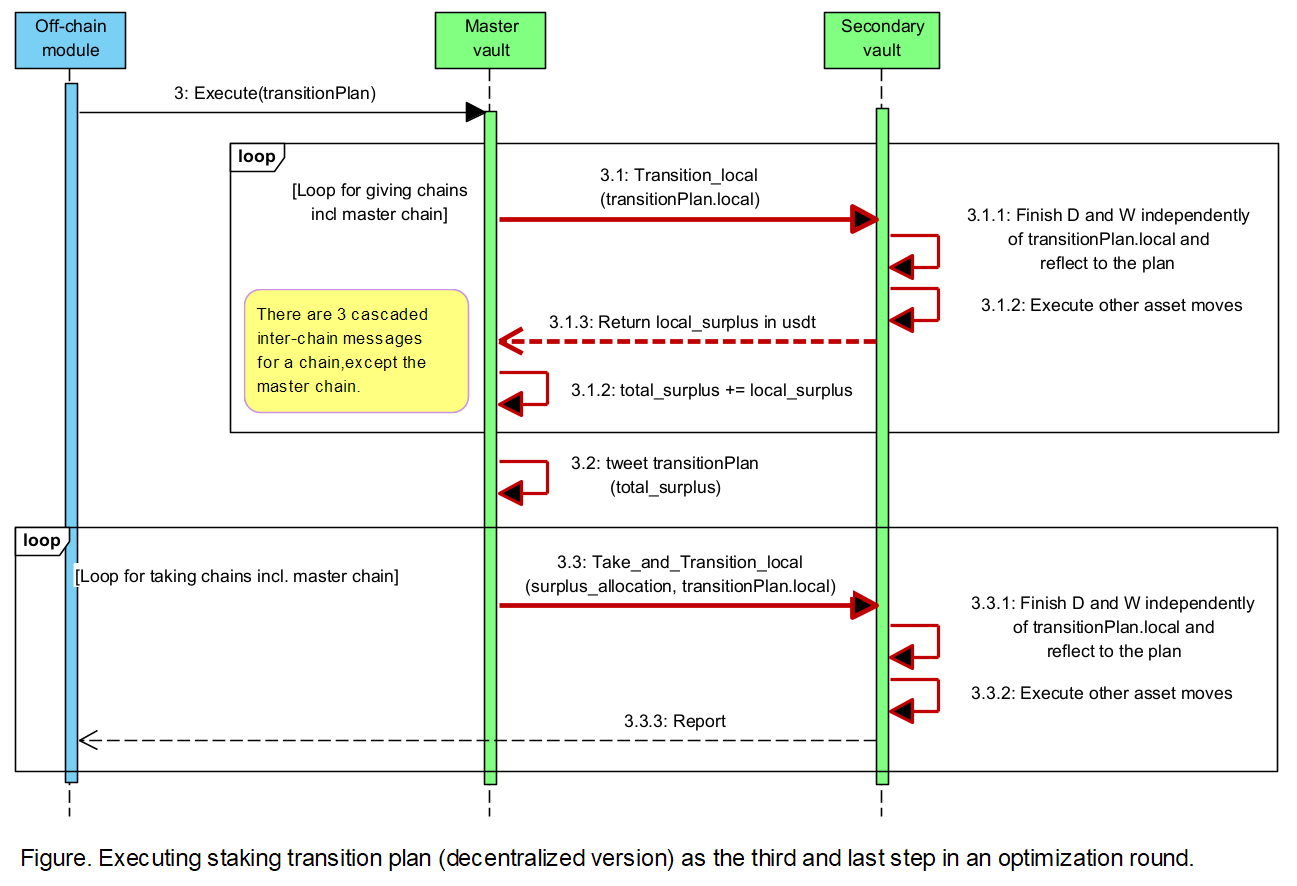
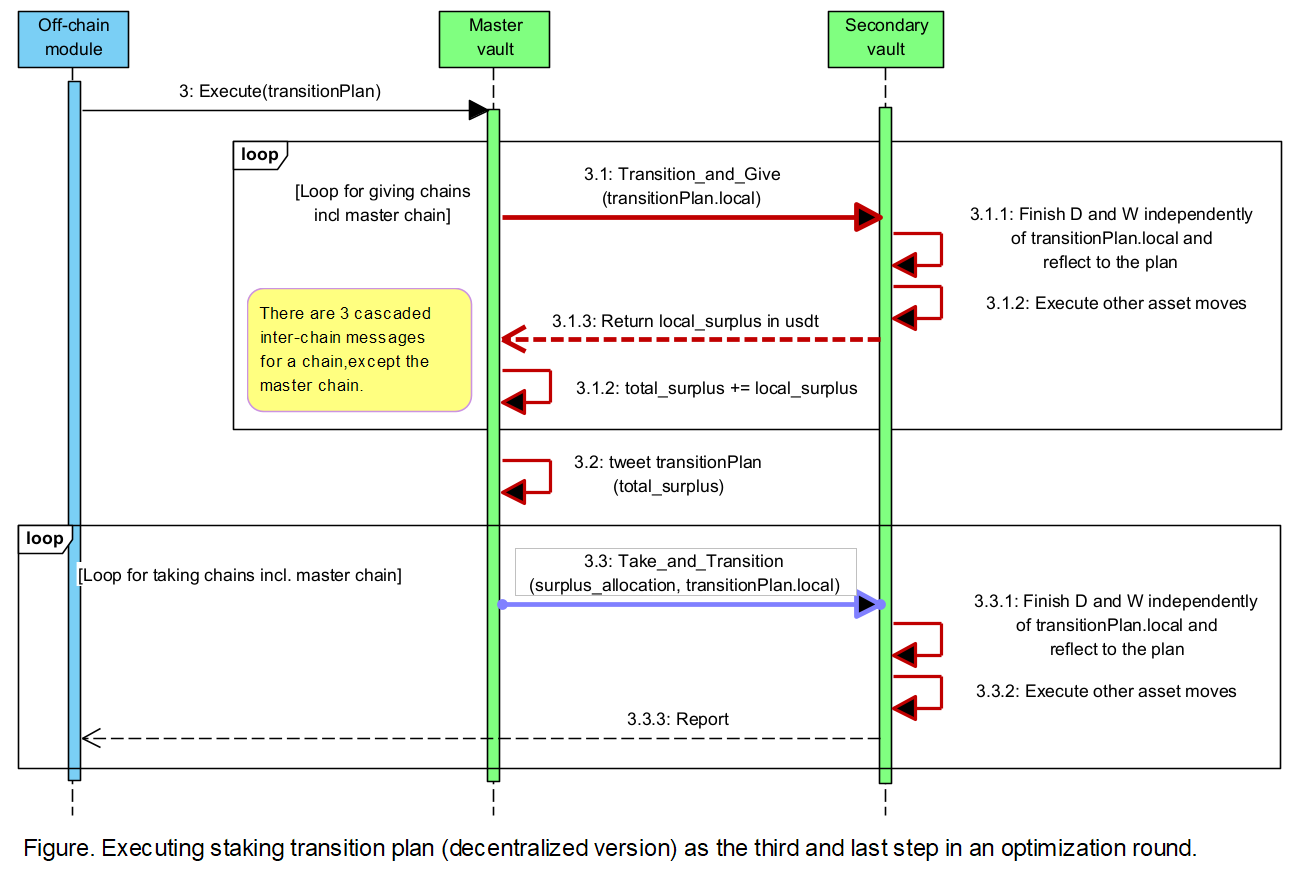
diagrams

diff --git a/Architecture/Architecture.md b/Architecture/Architecture.md
@@ -129,7 +129,7 @@ The only way is to deploy smart contracts on chains that cooperate with each oth
 
 According to the requirements, vaults do *not* have to 
 - find an optimal asset state to **Optimize asset/request state** to
-- execute asset move requests, like assetMovePlan identified in requirements, strictly, because there will not be negative profit.
+- execute asset move requests, like transitionPlan identified in requirements, strictly, because there will not be negative profit.
 <br><br>
 
 ###  2.3. <a name='Localtransportationtofromwallets'></a>Local transportation to/from wallets
@@ -363,19 +363,19 @@ Functional modules are described below:
 - **User wallet**: This is a blockchain wallet and identifies a **User**. **User**'s actions; like deposit, withdraw, and harvest; are authenticated/authorized with this wallet.
 - **Vault account**: It is the blockchain account of, and controlled by, **Secondary vault contract** and used to store temporary assets, like funds pending staking.
 - **Treasury wallet**: This is a blockchain wallet, and a place to store and retrieve system revenues, like fees. It will be better if it is not owned by a human, but be the account of a smart contract that only obeys vault contracts, for better decentralization. It is deployed on all chains.
-- **Staking optimizer**: This is an off-chain module that can invoke **Master vault contract**s. This module is globally unique, calculates optimal **assetMovePlan**s, and lets the master vault to execute the plans (in cooperation with secondary vaults). *It is an important design decision that the assetMovePlan is calculated off-chain, thus leading to transparency and security debates, for the sake of gas- and time- savings:*
-    - Transparency debate: **User**s will not be able to track why the system chose particular **assetMovePlan**s technically.
-    - Security debate: If the calculation of **assetMovePlan** is hacked or compromised, then the system will make a less-optimal staking maneuver.
+- **Staking optimizer**: This is an off-chain module that can invoke **Master vault contract**s. This module is globally unique, calculates optimal **transitionPlan**s, and lets the master vault to execute the plans (in cooperation with secondary vaults). *It is an important design decision that the transitionPlan is calculated off-chain, thus leading to transparency and security debates, for the sake of gas- and time- savings:*
+    - Transparency debate: **User**s will not be able to track why the system chose particular **transitionPlan**s technically.
+    - Security debate: If the calculation of **transitionPlan** is hacked or compromised, then the system will make a less-optimal staking maneuver.
     - Justification: Only the second of the following concerns becomes less transparent, leading to both un-assured best profitability and assured huge gas- and time- savings.
         - how much of what assets from which pool to which pool, is the move about
         - whether all the asset moves are securely and/or reasonably/optimally chosen
         - whether all the asset moves are securely executed and logged
         - whether the move logs are readily available to check later
-        - whether the execution of assetMovePlan is integrated
+        - whether the execution of transitionPlan is integrated
 - **Trading optimizer**: This off-chain module is similar to **Staking optimizer**, except it relates to trading.
 - **Adimin wallet**: This wallet is used to invoke **Master vault contract", in privilege, on behalf of the administrator.
-- **Staking planner**: An integral component of **Staking optimizer**, this module predicts the next most profitable **staking_portfolio**, based on **poolsInfo** provided by **Pools tracker**. Running this module on-chain would enhance transparency, but would at the same time incur huge gas fees and effectively disable the system.
-- **Transition planner**: An integral component of **Staking optimizer**, this module predicts the most efficient **assetMovePlan**, which is the best procedure of asset move that implements the transitioning to a given **staking_portfolio**, based on the current **poolsInfo**.
+- **Staking planner**: An integral component of **Staking optimizer**, this module predicts the next most profitable **staking_portfolio**, based on **poolsState** provided by **Pools tracker**. Running this module on-chain would enhance transparency, but would at the same time incur huge gas fees and effectively disable the system.
+- **Transition planner**: An integral component of **Staking optimizer**, this module predicts the most efficient **transitionPlan**, which is the best procedure of asset move that implements the transitioning to a given **staking_portfolio**, based on the current **poolsState**.
 - **Trading optimizer**: This is similar to **Staking optimizer**, except that it relates to trading.
 - **Trading planner**: This is similar to **Staking planner**, except that it relates to trading.
 - **Pools tracker**: A shared module between **Staking optimizer** and **Trading optimizer**, this module retrieves and tracks all relevant information from chains, like Reward Release Speed, and total Staked LP of each pool. Running this module on-chain would enhance transparency, but would at the same time incur huge gas fees and effectively disable the system.
@@ -421,12 +421,12 @@ The external actors in the following use case diagram, together with their inter
     - retrieves the books withdrawal request,
     - subtract fund, as much as covered by the returned LP tokens, from the total system assets, and
     - returns the fund to **User wallet**
-- **Control staking transition**: This use case transitions to a new asset state by executing **assetMovePlan** provided by **Staking optimizer**. (This is the most challenging part of vault implementation.) It does *collectively*, by using **Move staking asset**,
+- **Control staking transition**: This use case transitions to a new asset state by executing **transitionPlan** provided by **Staking optimizer**. (This is the most challenging part of vault implementation.) It does *collectively*, by using **Move staking asset**,
     - **Collect reward**,
     - Collect staked assets, to cover the fund to **Finish withdraw**,
     - **Finish deposit**,
     - **Finish withdraw**,
-    - execute remaining part of **assetMovePlan**
+    - execute remaining part of **transitionPlan**
 - **Control trading**: This use case executes **assetMovePlan** provided by **Trading optimizer**.
 
 <div style="page-break-after: auto;"></div>
@@ -451,7 +451,7 @@ Note. All errors, like numerical processing rounding and price slippage, are ign
     - Deposit requests currently booked
     - Withdrawal requests currently booked
     - Current pending rewards
-    - Current poolsInfo
+    - Current poolsState
 <br>
 
 - Process
@@ -616,6 +616,20 @@ Some vault operations should be decentralized to meet the requirements. Tracking
 - Sending assets from vaults to users' wallets, on users' withdrawal requests
 <br><br>
 
+###  8.3. <a name='Operationsexemptibleofdecentralization'></a>Operations exemptible of decentralization
+Vaults cooperation for staking optimization **does not have to be decentralized**, in the meaning that the optimization doesn't have to provide ideal maximum profit nor have to be successful
+- Collecting pools information from chains to off-chain modules, could be done by off-chain modules
+- Sending asset move plana to chains, could take detour via Mozaic off-chain modules with Admin wallets, at the risk of 
+    - the plan could be tempered by (inauditable/unautidited) Mozaic modules or hackers. (But the plan itself is calculated by off-chain modules.)
+    - the plan may even fail to be conveyed. (But this type of off-chain failture can also happen when we don't employ off-line detours.)
+- Relaying requests between local vaults, during transitioning to a new staking, could take detour via Mozaic off-chain modules with Admin wallets, with the same risks as above
+<br>
+
+###  8.4. <a name='Designrecommendations'></a>Design recommendations
+
+- We will choose *decentralized* inter-chain transportation between off-chain modules and vault contracts when finding new optimal staking portfolio and transitioning to the new staking
+- Inter-chain messages, once identified as required, will carry as much information as possible.
+
 <p align="center">
   <img src=".\Get_asset_state Sequence.PNG" width="1280" title="vault use cases" style="page-break-before: avoid;">
 </p>
@@ -630,20 +644,6 @@ Some vault operations should be decentralized to meet the requirements. Tracking
   <img src=".\Execute staking transition plan.PNG" width="1280" title="vault use cases" style="page-break-before: avoid;">
 </p>
 <br>
-
-###  8.3. <a name='Operationsexemptibleofdecentralization'></a>Operations exemptible of decentralization
-Vaults cooperation for staking optimization **does not have to be decentralized**, in the meaning that the optimization doesn't have to provide ideal maximum profit nor have to be successful
-- Collecting pools information from chains to off-chain modules, could be done by off-chain modules
-- Sending asset move plana to chains, could take detour via Mozaic off-chain modules with Admin wallets, at the risk of 
-    - the plan could be tempered by (inauditable/unautidited) Mozaic modules or hackers. (But the plan itself is calculated by off-chain modules.)
-    - the plan may even fail to be conveyed. (But this type of off-chain failture can also happen when we don't employ off-line detours.)
-- Relaying requests between local vaults, during transitioning to a new staking, could take detour via Mozaic off-chain modules with Admin wallets, with the same risks as above
-<br>
-
-###  8.4. <a name='Designrecommendations'></a>Design recommendations
-
-- We will choose *Centralized* inter-chain transportation between off-chain modules and vault contracts when finding new optimal staking portfolio and transitioning to the new staking
-- Inter-chain messages, once indentified as required, will carry as much information as possible.
 
 ###  8.5. <a name='Anoff-chaindetourforinter-chaintransportation'></a>An off-chain detour for inter-chain transportation
 - An off-chain module monitors event logs of a smart contract for a target event happening

diff --git a/Architecture/Requiements.md b/Architecture/Requiements.md
@@ -43,7 +43,7 @@ The use cases and external actors are described as below:
 - **Control asset move**: This use case checks, carries out, and keeps track of asset moves. The assets managed by the system can only be moved by this use case transparently.
 - **Deposit**: This use case deposits the user's assets in the system. A **User** invokes this use case in the hope that the system will **Optimize staking** of the deposited assets for them. **User** should be able to deposit any listed token on any listed chain. This use case includes **Control asset move**.
 - **Withdraw**: This use case withdraws from **Staking stock**. A **User** should be able to withdraw any listed token on any listed chain, no matter what token on which chain they deposited. (The deposited assets are increased by perpetual compounding of rewards.) **User** invokes this use case. It includes **Control asset move**.
-- **Optimize staking**: This use case upgrades the staking portfolio to maximize rewards. **Profit generator**, a role of the system, invokes this use case *either on a regular basis or at randomly picked times*. This use case includes **Control asset move** and **Compound**. *By providing **Control asset move** with **assetMovePlan**, this use case effectively prevents it from being involved with finding optimal staking portfolio.*
+- **Optimize staking**: This use case upgrades the staking portfolio to maximize rewards. **Profit generator**, a role of the system, invokes this use case *either on a regular basis or at randomly picked times*. This use case includes **Control asset move** and **Compound**. *By providing **Control asset move** with **transitionPlan**, this use case effectively prevents it from being involved with finding optimal staking portfolio.*
 - **Trade**: This use case swaps idle assets to get profit from price changes. It invokes **Dex**. *By providing **Control asset move** with **assetMovePlan**, this use case effectively prevents it from being involved with finding optimal trading orders.*
 - **Collect reward**: This use case  collects rewards from Staking pools. Use case **Control asset move**, when it is working included **Optimize staking**, is extended by this use case. This use case invokes **Staking pool**.
 - **Move staking asset**: This use case moves assets to/between/from, **Staking pools**. **Control asset move**, when it is working included **Optimize staking**, is extended by this use case. This use case invokes **Staking pool**.
